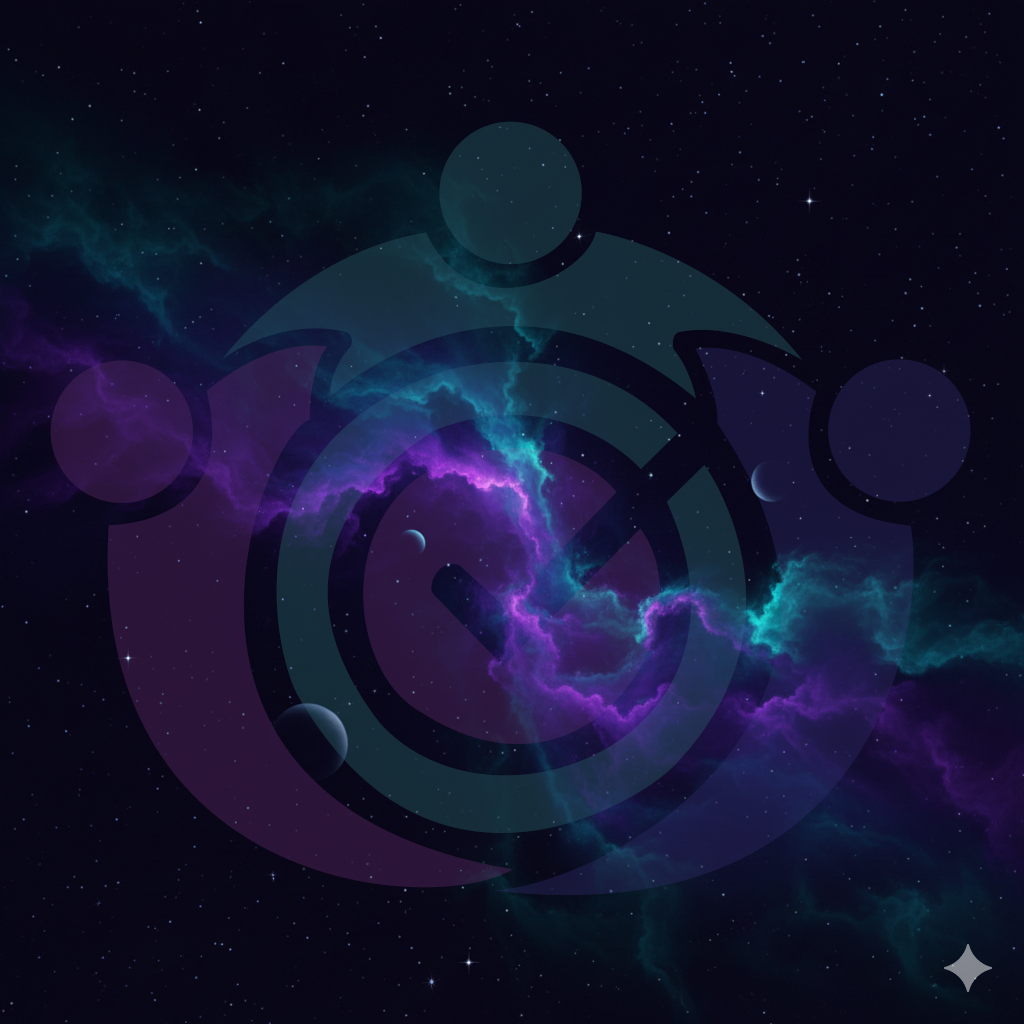
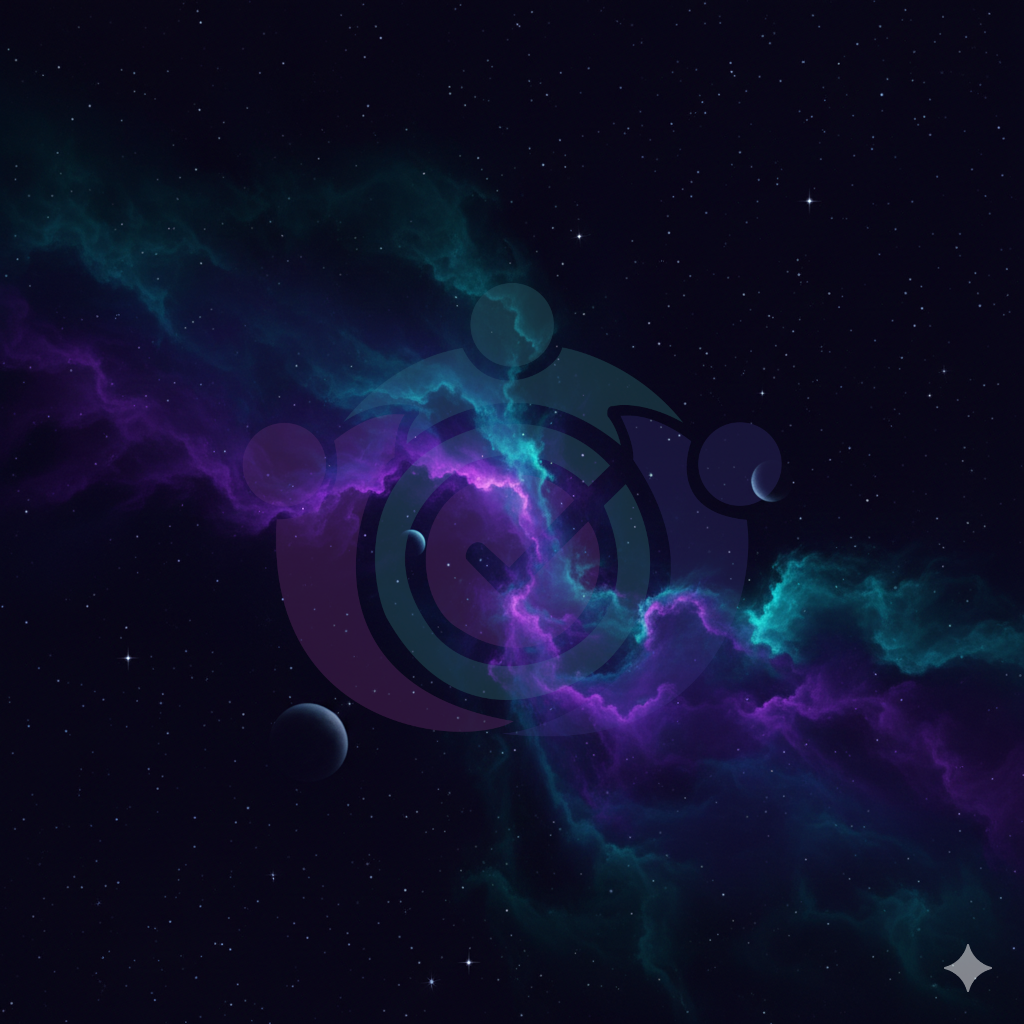
feat(challenges): support custom referral card background image
Serve referral background assets from the API host, include background_image_url in challenge invite card payloads, and render the custom image in Android share card UI with fallback behavior and E2E assertions.

diff --git a/pursue-app/app/src/main/java/app/getpursue/ui/activities/ShareableMilestoneCardActivity.kt b/pursue-app/app/src/main/java/app/getpursue/ui/activities/ShareableMilestoneCardActivity.kt
@@ -28,6 +28,7 @@ import androidx.lifecycle.lifecycleScope
 import app.getpursue.R
 import app.getpursue.data.auth.SecureTokenManager
 import app.getpursue.data.network.ApiClient
+import com.bumptech.glide.Glide
 import com.google.android.material.button.MaterialButton
 import com.google.android.material.card.MaterialCardView
 import com.google.gson.Gson
@@ -85,11 +86,13 @@ class ShareableMilestoneCardActivity : AppCompatActivity() {
         val quote: String,
         val goalIconEmoji: String,
         val backgroundGradient: List<String>,
+        val backgroundImageUrl: String?,
         val shareUrl: String?,
         val qrUrl: String?
     )
 
     private lateinit var cardRoot: MaterialCardView
+    private lateinit var backgroundImage: ImageView
     private lateinit var gradientLayer: View
     private lateinit var qrImage: ImageView
     private lateinit var titleText: TextView
@@ -138,6 +141,7 @@ class ShareableMilestoneCardActivity : AppCompatActivity() {
         supportActionBar?.title = getString(R.string.shareable_card_title)
 
         cardRoot = findViewById(R.id.milestone_card_root)
+        backgroundImage = findViewById(R.id.milestone_card_background_image)
         gradientLayer = findViewById(R.id.milestone_card_gradient)
         qrImage = findViewById(R.id.card_qr)
         titleText = findViewById(R.id.card_title)
@@ -244,6 +248,7 @@ class ShareableMilestoneCardActivity : AppCompatActivity() {
         val goalIcon = (map["icon_emoji"] as? String) ?: (map["goal_icon_emoji"] as? String) ?: "\uD83C\uDFAF"
         val shareUrl = map["share_url"] as? String
         val qrUrl = map["qr_url"] as? String
+        val backgroundImageUrl = map["background_image_url"] as? String
 
         val gradientRaw = map["background_gradient"] as? List<*>
         val gradient = if (gradientRaw != null && gradientRaw.size >= 2) {
@@ -263,6 +268,7 @@ class ShareableMilestoneCardActivity : AppCompatActivity() {
             quote = quote,
             goalIconEmoji = goalIcon,
             backgroundGradient = gradient,
+            backgroundImageUrl = backgroundImageUrl,
             shareUrl = shareUrl,
             qrUrl = qrUrl
         )
@@ -302,6 +308,18 @@ class ShareableMilestoneCardActivity : AppCompatActivity() {
             GradientDrawable.Orientation.TOP_BOTTOM,
             intArrayOf(top, bottom)
         )
+        if (data.cardType == "challenge_invite" && !data.backgroundImageUrl.isNullOrBlank()) {
+            backgroundImage.visibility = View.VISIBLE
+            gradientLayer.visibility = View.GONE
+            Glide.with(this)
+                .load(data.backgroundImageUrl)
+                .centerCrop()
+                .into(backgroundImage)
+        } else {
+            backgroundImage.visibility = View.GONE
+            gradientLayer.visibility = View.VISIBLE
+            backgroundImage.setImageDrawable(null)
+        }
 
         val qrContent = data.qrUrl ?: data.shareUrl
         if (!qrContent.isNullOrBlank()) {

diff --git a/pursue-server/src/services/challengeInviteCard.service.ts b/pursue-server/src/services/challengeInviteCard.service.ts
@@ -1,8 +1,10 @@
 import { getOrCreateReferralToken } from './referral.service.js';
 
 const SHARE_BASE_URL = process.env.PURSUE_SHARE_BASE_URL ?? 'https://getpursue.app';
+const CARD_ASSET_BASE_URL = process.env.PURSUE_CARD_ASSET_BASE_URL ?? 'https://api.getpursue.app';
 const DEFAULT_CTA_TEXT = 'Are you in?';
 const DEFAULT_GRADIENT: [string, string] = ['#E53935', '#C62828'];
+const REFERRAL_CARD_BACKGROUND_PATH = '/assets/referral_card_background.png';
 
 export interface ChallengeInviteCardBaseData extends Record<string, unknown> {
   card_type: 'challenge_invite';
@@ -11,6 +13,7 @@ export interface ChallengeInviteCardBaseData extends Record<string, unknown> {
   icon_emoji: string;
   cta_text: string;
   background_gradient: [string, string];
+  background_image_url: string;
   invite_url: string;
 }
 
@@ -51,6 +54,7 @@ export function buildChallengeInviteCardBase(
     icon_emoji: input.iconEmoji ?? '\u{1F3AF}',
     cta_text: DEFAULT_CTA_TEXT,
     background_gradient: DEFAULT_GRADIENT,
+    background_image_url: REFERRAL_CARD_BACKGROUND_PATH,
     invite_url: buildChallengeLink(input.inviteCode),
   };
 }
@@ -65,15 +69,33 @@ function buildAttributedUrl(
   return `${base}?utm_source=${encodeURIComponent(source)}&utm_medium=challenge_card&utm_campaign=${encodeURIComponent(campaign)}&ref=${encodeURIComponent(token)}`;
 }
 
+function resolveBackgroundImageUrl(raw: string | null | undefined, assetBaseUrl?: string): string {
+  const value = raw?.trim();
+  if (!value) return `${CARD_ASSET_BASE_URL}${REFERRAL_CARD_BACKGROUND_PATH}`;
+  const normalizedBase = (assetBaseUrl?.trim() || CARD_ASSET_BASE_URL).replace(/\/+$/, '');
+  if (value.includes(REFERRAL_CARD_BACKGROUND_PATH)) {
+    return `${normalizedBase}${REFERRAL_CARD_BACKGROUND_PATH}`;
+  }
+  if (value.startsWith('http://') || value.startsWith('https://')) return value;
+  const normalizedPath = value.startsWith('/') ? value : `/${value}`;
+  return `${normalizedBase}${normalizedPath}`;
+}
+
 export async function attachInviteCardAttribution(
   base: ChallengeInviteCardBaseData,
   inviteCode: string,
   requesterUserId: string,
-  campaign = 'challenge_invite'
+  campaign = 'challenge_invite',
+  assetBaseUrl?: string
 ): Promise<ChallengeInviteCardData> {
   const referralToken = await getOrCreateReferralToken(requesterUserId);
+  const backgroundImageUrl = resolveBackgroundImageUrl(
+    typeof base.background_image_url === 'string' ? base.background_image_url : undefined,
+    assetBaseUrl
+  );
   return {
     ...base,
+    background_image_url: backgroundImageUrl,
     referral_token: referralToken,
     share_url: buildAttributedUrl(inviteCode, referralToken, 'share', campaign),
     qr_url: buildAttributedUrl(inviteCode, referralToken, 'qr', campaign),

diff --git a/pursue-server/src/controllers/groups.ts b/pursue-server/src/controllers/groups.ts
@@ -103,6 +103,7 @@ function parseChallengeInviteCardBase(
     value.background_gradient.length !== 2 ||
     typeof value.background_gradient[0] !== 'string' ||
     typeof value.background_gradient[1] !== 'string' ||
+    typeof value.background_image_url !== 'string' ||
     typeof value.invite_url !== 'string'
   ) {
     return null;
@@ -115,6 +116,7 @@ function parseChallengeInviteCardBase(
     icon_emoji: value.icon_emoji,
     cta_text: value.cta_text,
     background_gradient: [value.background_gradient[0], value.background_gradient[1]],
+    background_image_url: value.background_image_url,
     invite_url: value.invite_url,
   };
 }
@@ -1301,6 +1303,7 @@ export async function getGroupInvite(
       throw new ApplicationError('No active invite code found', 404, 'NOT_FOUND');
     }
 
+    const assetBaseUrl = `${req.protocol}://${req.get('host')}`;
     let inviteCardData: Record<string, unknown> | undefined;
     if (groupInfo.is_challenge) {
       let base = parseChallengeInviteCardBase(groupInfo.challenge_invite_card_data);
@@ -1319,7 +1322,7 @@ export async function getGroupInvite(
           .execute();
       }
       if (base) {
-        inviteCardData = await attachInviteCardAttribution(base, invite.code, req.user.id);
+        inviteCardData = await attachInviteCardAttribution(base, invite.code, req.user.id, 'challenge_invite', assetBaseUrl);
       }
     }
 
@@ -1460,7 +1463,9 @@ export async function regenerateInviteCode(
       response.invite_card_data = await attachInviteCardAttribution(
         result.challenge_invite_card_base,
         result.invite_code,
-        req.user.id
+        req.user.id,
+        'challenge_invite',
+        `${req.protocol}://${req.get('host')}`
       );
     }
 

diff --git a/pursue-app/app/src/e2e/kotlin/challenges/ChallengesE2ETest.kt b/pursue-app/app/src/e2e/kotlin/challenges/ChallengesE2ETest.kt
@@ -391,6 +391,7 @@ class ChallengesE2ETest : E2ETest() {
         val card = created.challenge.invite_card_data
         assertThat(card).isNotNull()
         assertThat(card!!.card_type).isEqualTo("challenge_invite")
+        assertThat(card.background_image_url).isNotNull()
         assertThat(card.invite_url).contains("/challenge/${created.challenge.invite_code}")
         assertThat(card.share_url).contains("/challenge/${created.challenge.invite_code}")
         assertThat(card.qr_url).contains("/challenge/${created.challenge.invite_code}")
@@ -420,7 +421,8 @@ class ChallengesE2ETest : E2ETest() {
         val invite = api.getGroupInviteCode(user.access_token, created.challenge.id)
         val inviteCard = invite.invite_card_data
         assertThat(inviteCard).isNotNull()
-        assertThat(inviteCard!!.invite_url).contains("/challenge/${invite.invite_code}")
+        assertThat(inviteCard!!.background_image_url).isNotNull()
+        assertThat(inviteCard.invite_url).contains("/challenge/${invite.invite_code}")
         assertThat(inviteCard.share_url).contains("/challenge/${invite.invite_code}")
         assertThat(inviteCard.qr_url).contains("/challenge/${invite.invite_code}")
 

diff --git a/pursue-server/src/app.ts b/pursue-server/src/app.ts
@@ -1,6 +1,7 @@
 import express from 'express';
 import cors from 'cors';
 import helmet from 'helmet';
+import path from 'node:path';
 import { db } from './database/index.js';
 import { errorHandler } from './middleware/errorHandler.js';
 import { apiLimiter } from './middleware/rateLimiter.js';
@@ -96,6 +97,9 @@ app.get('/health', async (_req, res) => {
     });
   }
 });
+
+// Static assets for shareable cards and server-hosted media.
+app.use('/assets', express.static(path.join(process.cwd(), 'assets')));
 
 // Temporary: Log all /api/users/avatar requests (only if DEBUG_AVATAR is enabled)
 const DEBUG_AVATAR = process.env.DEBUG_AVATAR === 'true';

diff --git a/pursue-server/src/controllers/challenges.ts b/pursue-server/src/controllers/challenges.ts
@@ -368,11 +368,13 @@ export async function createChallenge(
       return { group, goals, inviteCode, inviteCardBase };
     });
 
+    const assetBaseUrl = `${req.protocol}://${req.get('host')}`;
     const inviteCardData = await attachInviteCardAttribution(
       created.inviteCardBase,
       created.inviteCode,
       req.user.id,
-      template?.slug ?? 'challenge_invite'
+      template?.slug ?? 'challenge_invite',
+      assetBaseUrl
     );
 
     res.status(201).json({

diff --git a/pursue-app/app/src/main/java/app/getpursue/data/network/ApiClient.kt b/pursue-app/app/src/main/java/app/getpursue/data/network/ApiClient.kt
@@ -2417,6 +2417,7 @@ data class ChallengeInviteCardData(
     val icon_emoji: String,
     val cta_text: String,
     val background_gradient: List<String>,
+    val background_image_url: String? = null,
     val invite_url: String,
     val referral_token: String,
     val share_url: String,
